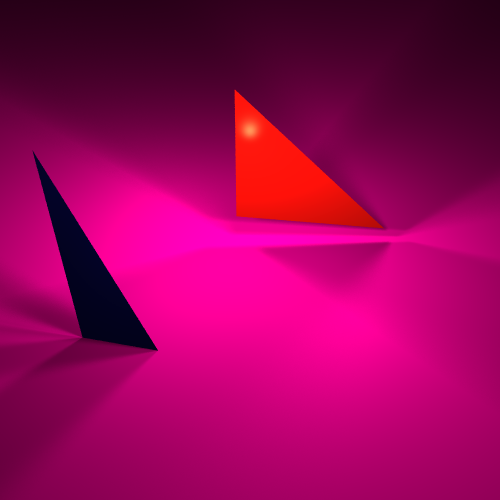
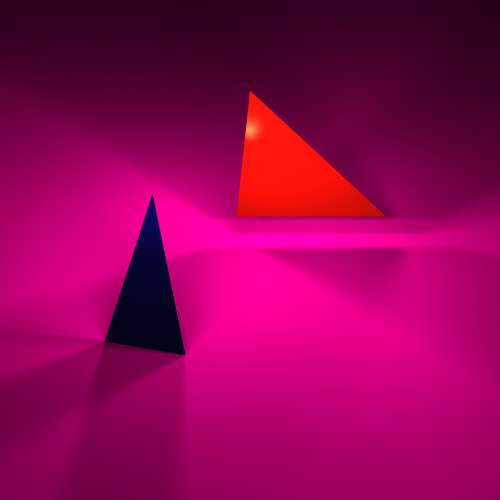
Triangle bug fix

diff --git a/src/RayTracing/Set.java b/src/RayTracing/Set.java
@@ -21,6 +21,8 @@ public class Set {
 
 	private Camera cam;
 
+	private double go_a_little_factor = Math.pow(10, -10);//TODO: think about the correct value
+
 	public class PrimitiveAndIntersection {
 		public Primitive primitive;
 		public Vector intersection;
@@ -283,7 +285,7 @@ public class Set {
 				Color I_p = lit.getColor();
 				Color litEffect = new Color(0, 0, 0);
 				//-- go back a little:
-				Vector go_back_a_little = new Vector(intersection.substract(inRay.getVector().timesScalar(Math.pow(10, -10))));//TODO: think about the correct timesScalar(?)
+				Vector go_back_a_little = new Vector(intersection.substract(inRay.getVector().timesScalar(go_a_little_factor)));
 				Vector N = primitive.normalAtIntersection(inRay).toUnit();
 
 				//-- define light rectangle
@@ -388,7 +390,7 @@ public class Set {
 		if (transp != 0) {
 			transparency_color = bgcolor;
 
-			Vector go_front_a_little = new Vector(pai[0].intersection.add(ray.getVector().timesScalar(Math.pow(10, -10))));
+			Vector go_front_a_little = new Vector(pai[0].intersection.add(ray.getVector().timesScalar(go_a_little_factor)));
 			Ray r = new Ray(go_front_a_little, ray.getVector());
 			PrimitiveAndIntersection[] pai_new = get2ClosestIntersectionAndPrimitive(r);
 			Vector closest_intersection = pai_new[0].intersection;
@@ -415,7 +417,7 @@ public class Set {
 			Vector N = closest_primitive.normalAtIntersection(ray);
 			for (Light lit : lights) {
 				//-- go back a little:
-				Vector go_back_a_little = new Vector(closest_intersection.substract(ray.getVector().timesScalar(Math.pow(10, -10))));//TODO: think about the correct timesScalar(?)
+				Vector go_back_a_little = new Vector(closest_intersection.substract(ray.getVector().timesScalar(go_a_little_factor)));
 
 				Vector L = lit.getOrigin().substract(go_back_a_little);
 				Ray r = new Ray(go_back_a_little, L);

diff --git a/src/RayTracing/Triangle.java b/src/RayTracing/Triangle.java
@@ -40,22 +40,28 @@ public class Triangle extends Primitive {
 		Vector p = pln.closerIntersectionPoint(r);
 		if (p == null)
 			return null;
-		Vector v1p = p.substract(T1);
-		
-		Vector v12 = T2.substract(T1).toUnit();
-		double l_a = v1p.dotProduct(v12);
-		double alpha = l_a / T2.substract(T1).magnitude();
-		
-		Vector v13 = T3.substract(T1).toUnit();
-		double l_b = v1p.dotProduct(v13);
-		double beta = l_b / T3.substract(T1).magnitude();
-		
-		if (0 <= alpha && alpha <= 1 &&
-				0 <= beta && beta <= 1 &&
-				alpha + beta <= 1)
-		{
-			return p;
-		}
+
+		//check if ray paraller to plane
+		if (this.pln.get_norm().dotProduct(r.getVector()) == 0)
+			return null;
+
+		// to find out if P is inside the triangle we can 
+		//test if the dot product of the vector along the edge and 
+		//the vector defined by the first vertex of the tested edge and P is positive 
+		//(meaning P is on the left side of the edge). 
+		//If P is on the left of all three edges, then P is inside the triangle.
+		//took from: 
+		//https://www.scratchapixel.com/lessons/3d-basic-rendering/ray-tracing-rendering-a-triangle/ray-triangle-intersection-geometric-solution
+		Vector edge0 = T2.substract(T1);
+		Vector edge1 = T3.substract(T2);
+		Vector edge2 = T1.substract(T3);
+		Vector C0 = p.substract(T1);
+		Vector C1 = p.substract(T2);
+		Vector C2 = p.substract(T3);
+		if (this.pln.get_norm().dotProduct(edge0.crossProduct(C0)) > 0 &&
+				this.pln.get_norm().dotProduct(edge1.crossProduct(C1)) > 0 &&
+				this.pln.get_norm().dotProduct(edge2.crossProduct(C2)) > 0) return p; // P is inside the triangle
+
 		return null;
 	}
 

diff --git a/src/RayTracing/Plane.java b/src/RayTracing/Plane.java
@@ -78,4 +78,7 @@ public class Plane extends Primitive {
 			throw new RayTracerException("Plane material index error!");
 	}
 
+	protected Vector get_norm(){
+		return new Vector (this.normal);
+	}
 }
